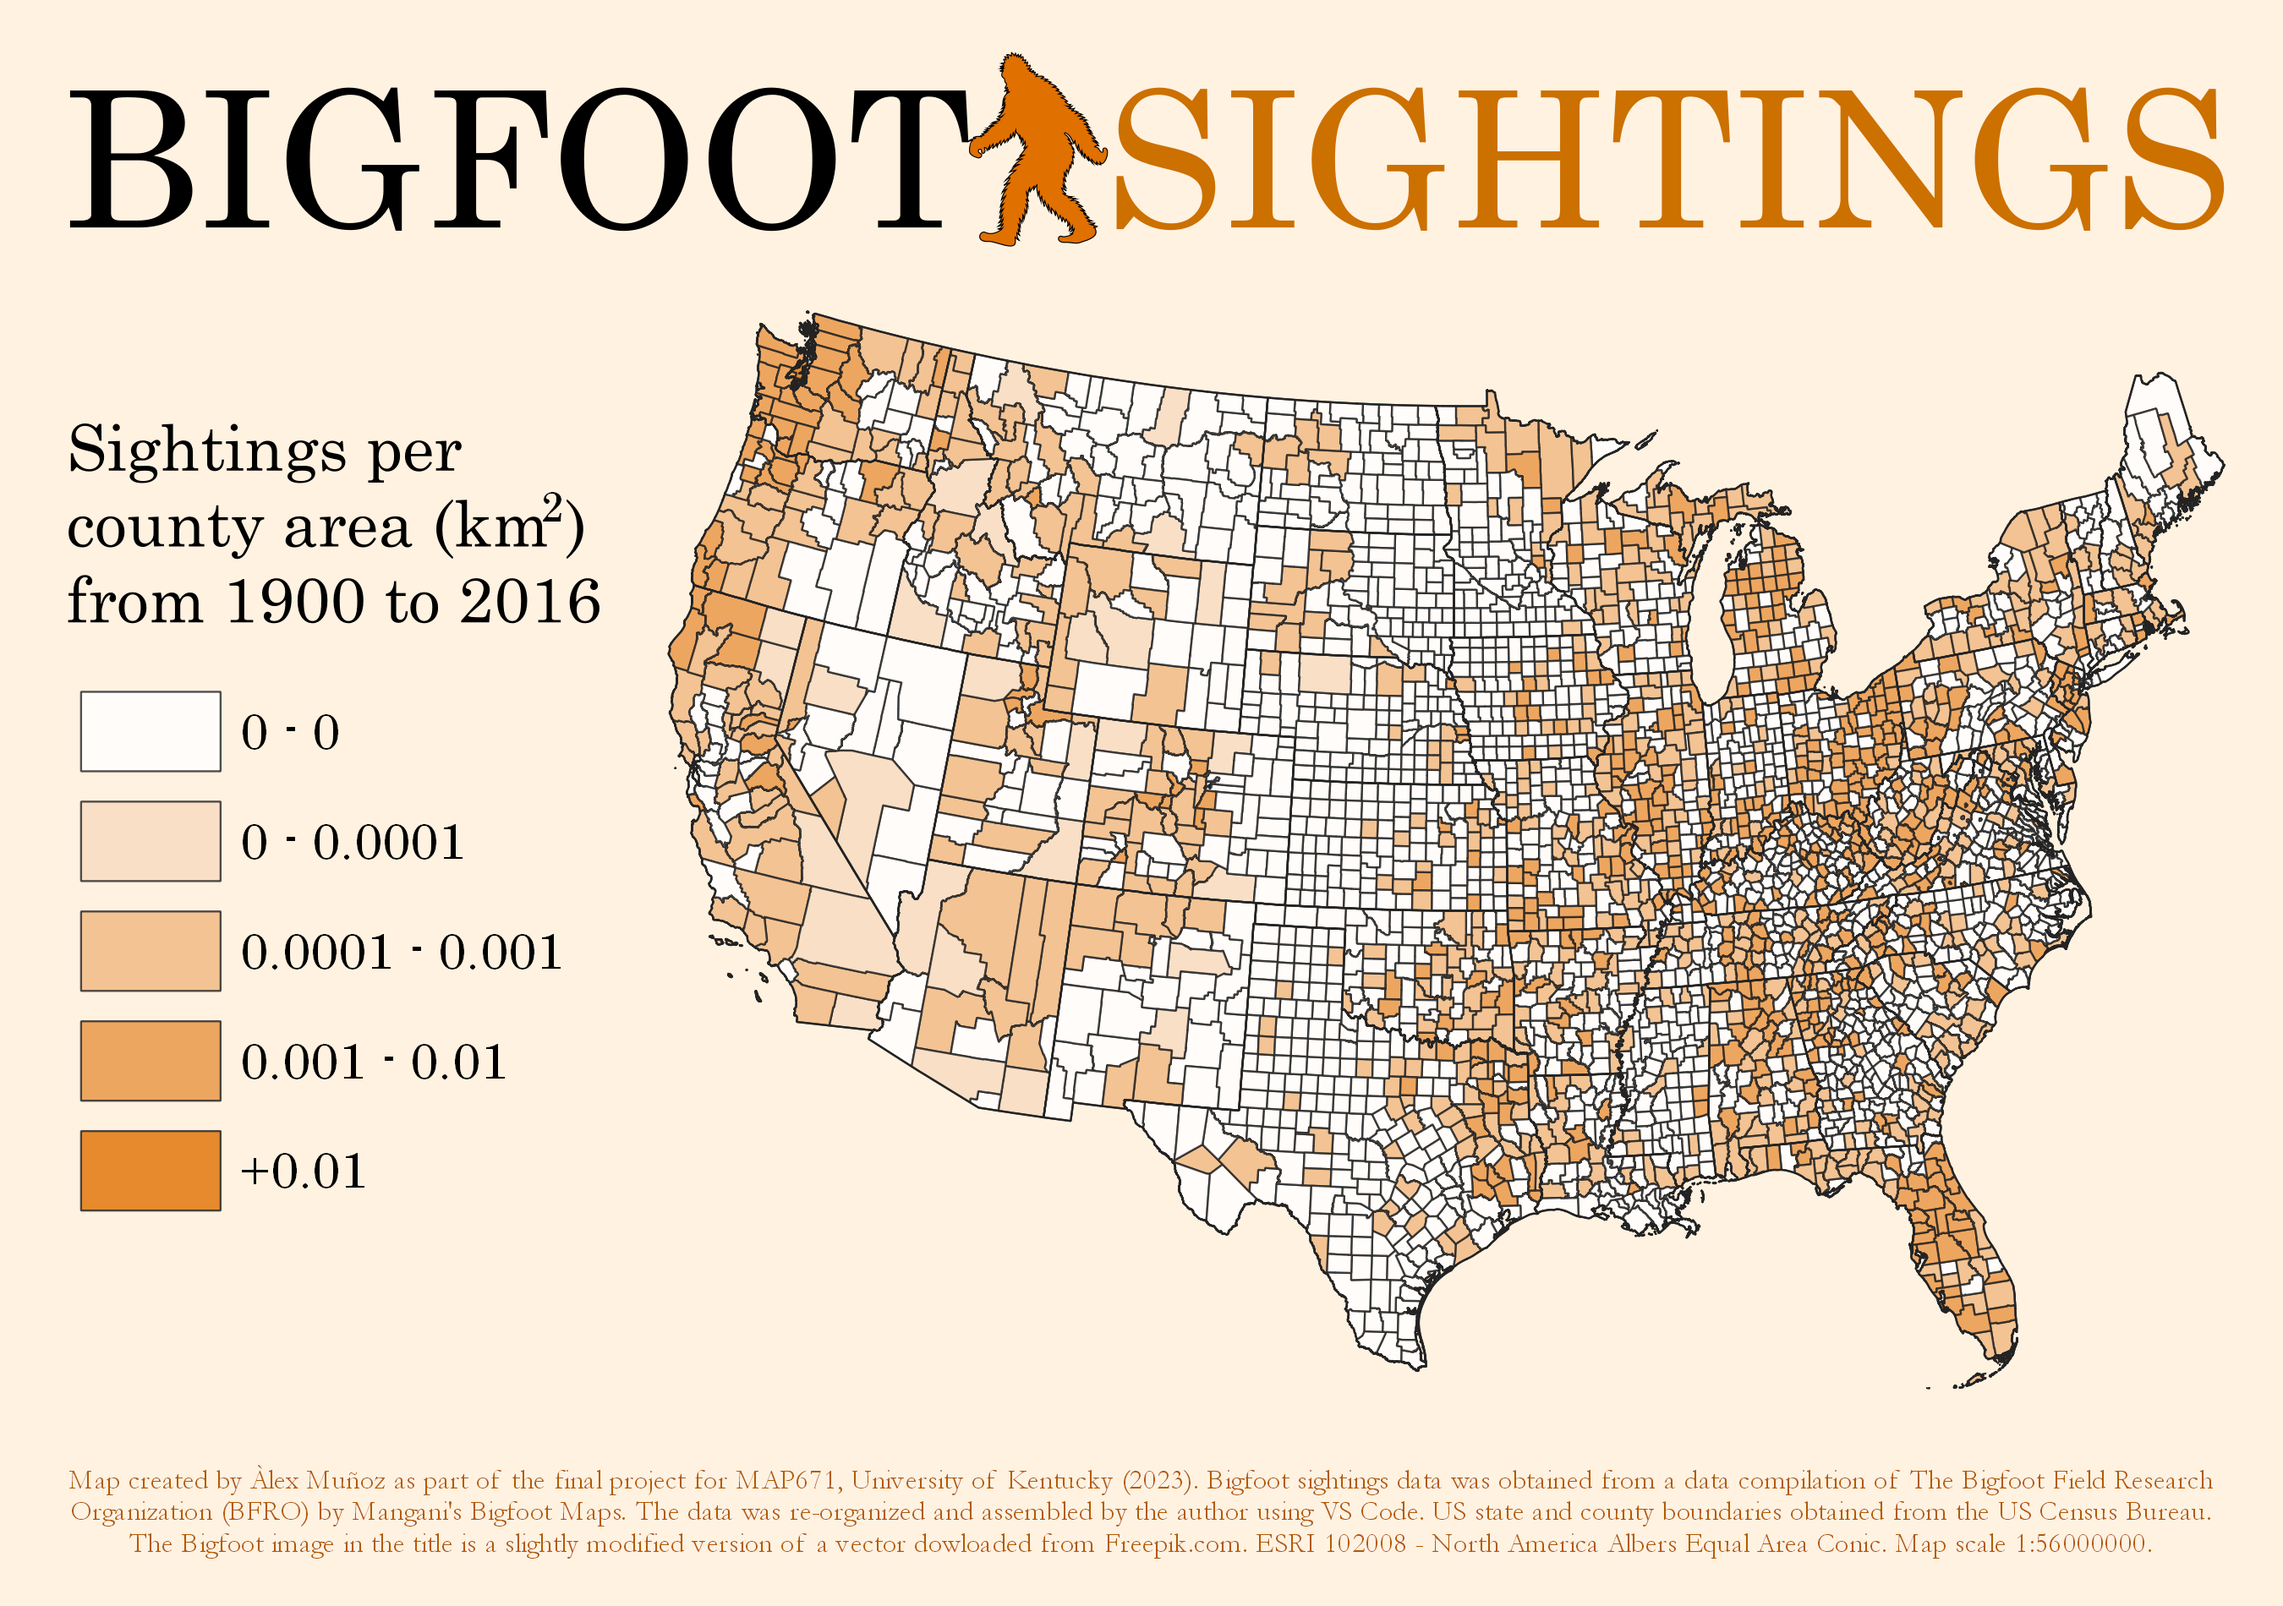
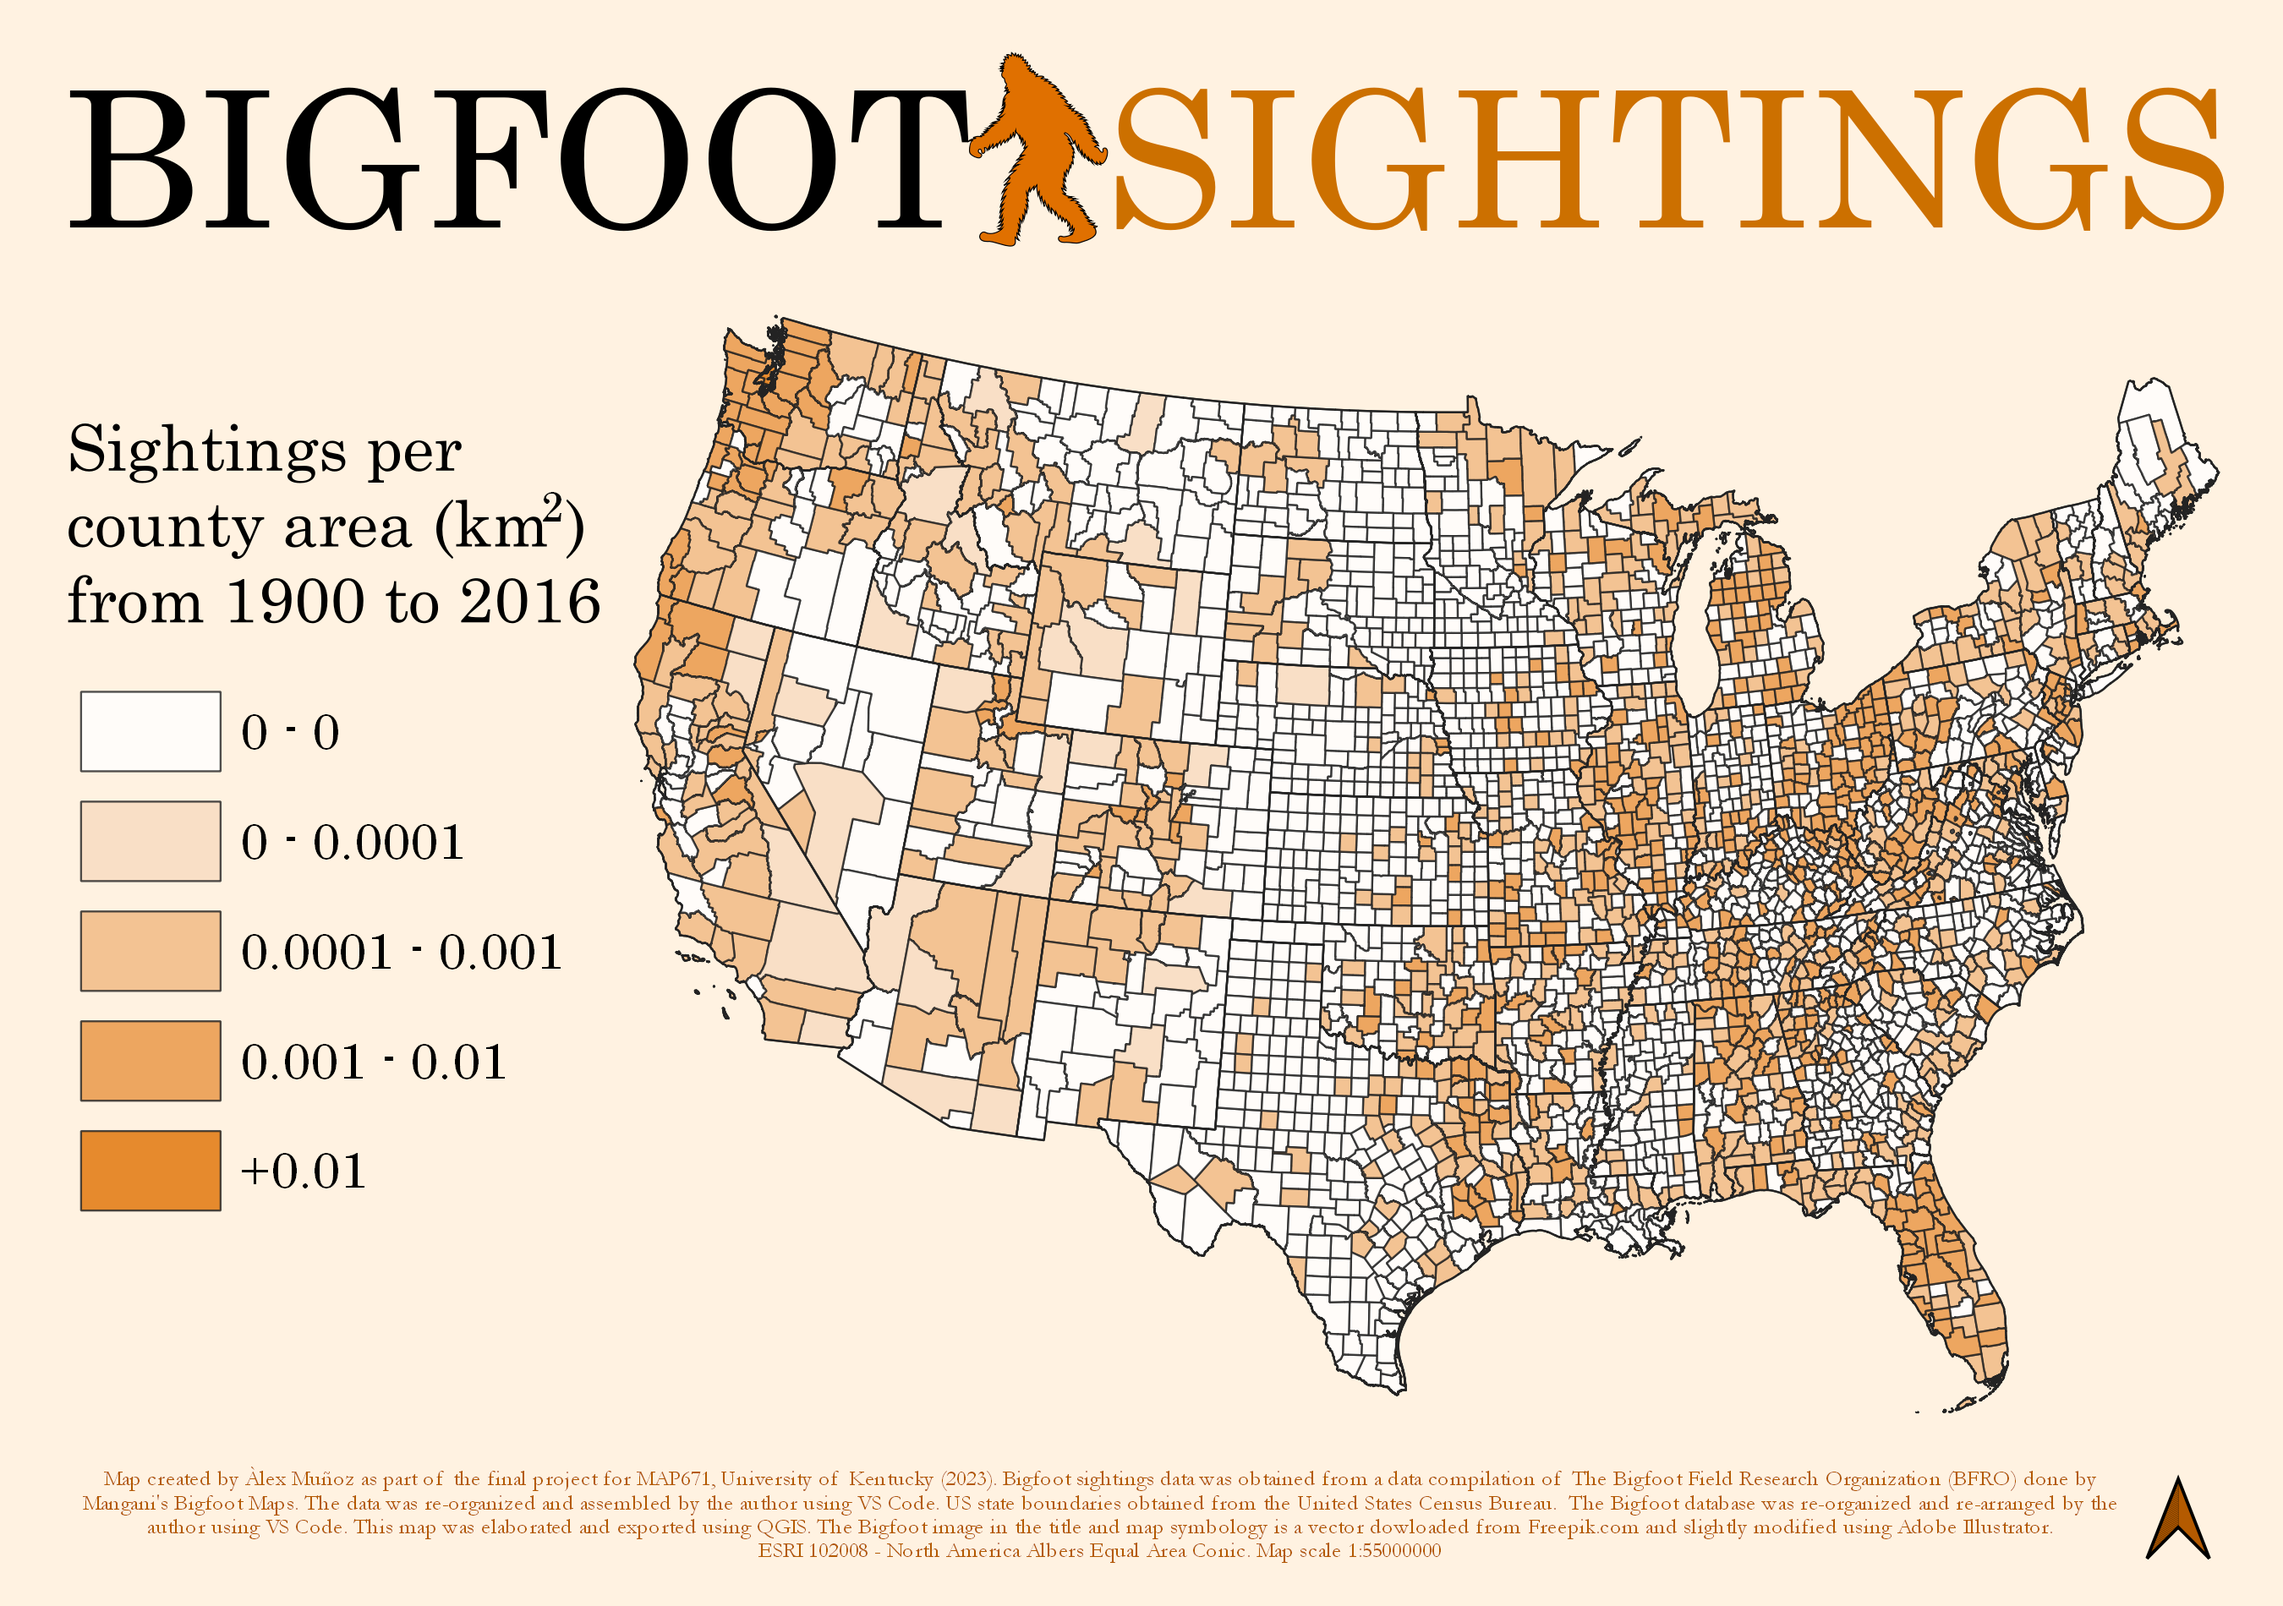
edited-maps-index&readme

Changed region(s): [[0.28, 0.1863, 0.9644, 0.8695], [0.0311, 0.9005, 0.9644, 0.9626]]

diff --git a/index.html b/index.html
@@ -145,7 +145,7 @@
                     geocoded and timestamped. </p>
 
                 <p> 
-                    Although I am not the 'I believe' type or into conspiracy theories, I thought it could be fun to map this data. Moreover, the BFRO accepts online submissions 
+                    Although I am not the 'I believe' type or really interested in conspiracy theories (more like in conspiracy theorists), I thought it could be fun to map this data. Moreover, the BFRO accepts online submissions 
                     of Bigfoot sighting reports, which adds a certain sense of community data crowdsourcing and community mapping to their project; two research topics that are of great 
                     personal interest.
                 </p>

diff --git a/README.md b/README.md
@@ -1,9 +1,9 @@
 
-# Mapping Bigfoot sightings 
+# Mapping Bigfoot Sightings in the Contiguous United States 
 
 ## Project Contents
 
-- [Mapping Bigfoot sightings](#mapping-bigfoot-sightings)
+- [Mapping Bigfoot Sightings in the Contiguous United States](#mapping-bigfoot-sightings-in-the-contiguous-united-states)
   - [Project Contents](#project-contents)
   - [Project Introduction](#project-introduction)
   - [Data Sources](#data-sources)
@@ -17,7 +17,7 @@
 ## Project Introduction
 For the final project of MAP671, I wanted to create a map representing curious data. Looking for different themes, I stumbled upon [The Bigfoot Field Research Organization (BFRO)](http://www.bfro.net), a website compiling different databases of Bigfoot encounters including sightings, audible sightings, trackmarks, or footprints. Every report included in these databases is geocoded and timestamped. 
 
-Although I am not the 'I believe' type or into conspiracy theories, I thought it could be fun to map this data. Moreover, the BFRO accepts online submissions of Bigfoot sighting reports, which adds a certain sense of community data crowdsourcing and community mapping to the project; two research topics that are of great personal interest.
+I am not the 'I believe' type or really interested in conspiracy theories (more like in conspiracy theorists), but I thought it could be fun to map this data. Moreover, the BFRO accepts online submissions of Bigfoot sighting reports, which adds a certain sense of community data crowdsourcing and community mapping to their project; two research topics that are of great personal interest.
 
 ## Data Sources
 
@@ -28,22 +28,22 @@ My database of Bigfoot sightings was constructed using the summaries of data fro
 Here you can download the prime CSV file and the final version of the database as a GeoJSON:
 
 * [bfro-creature-sightings.csv](https://github.com/alexmunozviso/map671-fp/blob/main/data/bfro-creature-sightings.csv)
-* DATAAAAAAAAAAAAAAAAAAAAAAAAAAAAAAAAAAAAAAAAAAAAAAAAAAAAAAAAAAAAAAAAAAAAAAAAAAAAAAAAAAAAAAAAAAAAAAAAAAAAAAAAAAAAAAAAAAAAAAAAAAAAAAAAAAAAAAAAAAAAAAAAAAAAAAAAAAAAAAAAAAAAAAAAAAAAAAAAAAAAAAAAAAAAAAAAAAAAAAAAAAAAAAAAAAAAAAAAAAAAAAAAAAAAAAAAAAAAAAAAAAAAAAAAAAAAAAAAAAAAAAAAAAAAAAAAAAAAAAAAAAAAAAAAAAAAAAAAAAAAAAAAAAAAAAAAAAAAAAAAAAAAAAAAAAAAAAAAAAAAAAAAAAAAAAAAAAAAAAAAAAAAAAAAAAAAAAAAAAAAAAAAAAAAAAAAAAAA GeoJSON LINK
+* [us-clipped-bfro-creature-sightings.geojson](https://github.com/alexmunozviso/map671-fp/blob/main/data/us-clipped-bfro-creature-sightings.geojson)
 
 ![CSV screenshot](https://github.com/alexmunozviso/map671-fp/blob/main/img/fig1.png)
 *Fig. 1 (left): VS Code screenshot of the text file as downloaded from Mangani's Bigfoot Maps* | *Fig. 2 (right): VS Code screenshot of the final CSV file database*
 
 
 ### Other Data
-2022 United States county and state boundaries were obtained from the [United States Census Bureau website](https://www.census.gov/geographies/mapping-files/time-series/geo/cartographic-boundary.html). After adding geometries, **joining the Bigfoot sightings database per location**, and normalizing this data per state/county area, these are the final datasets:
-* DATAAAAAAAAAAAAAAAAAAAAAAAAAAAAAAAAAAAAAAAAAAAAAAAAAAAAAAAAAAAAAAAAAAAAAAAAAAAAAAAAAAAAAAAAAAAAAAAAAAAAAAAAAAAAAAAAAAAAAAAAAAAAAAAAAAAAAAAAAAAAAAAAAAAAAAAAAAAAAAAAAAAAAAAAAAAAAAAAAAAAAAAAAAAAAAAAAAAAAAAAAAAAAAAAAAAAAAAAAAAAAAAAAAAAAAAAAAAAAAAAAAAAAAAAAAAAAAAAAAAAAAAAAAAAAAAAAAAAAAAAAAAAAAAAAAAAAAAAAAAAAAAAAAAAAAAAAAAAAAAAAAAAAAAAAAAAAAAAAAAAAAAAAAAAAAAAAAAAAAAAAAAAAAAAAAAAAAAAAAAAAAAAAAAAAAAAAAAA state LINK
-* DATAAAAAAAAAAAAAAAAAAAAAAAAAAAAAAAAAAAAAAAAAAAAAAAAAAAAAAAAAAAAAAAAAAAAAAAAAAAAAAAAAAAAAAAAAAAAAAAAAAAAAAAAAAAAAAAAAAAAAAAAAAAAAAAAAAAAAAAAAAAAAAAAAAAAAAAAAAAAAAAAAAAAAAAAAAAAAAAAAAAAAAAAAAAAAAAAAAAAAAAAAAAAAAAAAAAAAAAAAAAAAAAAAAAAAAAAAAAAAAAAAAAAAAAAAAAAAAAAAAAAAAAAAAAAAAAAAAAAAAAAAAAAAAAAAAAAAAAAAAAAAAAAAAAAAAAAAAAAAAAAAAAAAAAAAAAAAAAAAAAAAAAAAAAAAAAAAAAAAAAAAAAAAAAAAAAAAAAAAAAAAAAAAAAAAAAAAAAA county LINK
+2022 United States county and state boundaries were obtained from the [United States Census Bureau website](https://www.census.gov/geographies/mapping-files/time-series/geo/cartographic-boundary.html). After adding geometries, joining the Bigfoot sightings data per state/county, and normalizing it per area, these are the final datasets:
+* [2022-us-state-add-geo-bfro.zip](https://github.com/alexmunozviso/map671-fp/blob/main/data/2022-us-state-add-geo-bfro.zip)
+* [2022-us-county-add-geo-bfro.zip](https://github.com/alexmunozviso/map671-fp/blob/main/data/2022-us-county-add-geo-bfro.zip)
 
 ## Tools Used
 * [Visual Studio Code](https://code.visualstudio.com) was used to create the Bigfoot Sighting Database.
 * [QGIS](https://www.qgis.org) was used to geoprocess, analyze, and represent the geodata for this project.
 * Data is shown on [Mapbox](https://www.mapbox.com/) web map. If the map got popular it would require a fee to use.
-* [Adobe Illustrator](https://www.adobe.com/products/illustrator) was used to edit the Bigfoot miniatures used for both the webmap and this site header.
+* [Adobe Illustrator](https://www.adobe.com/products/illustrator) was used to edit the Bigfoot miniatures used as map symbols and as part of the website's graphics.
 
 ## Mapmaking Process
 
